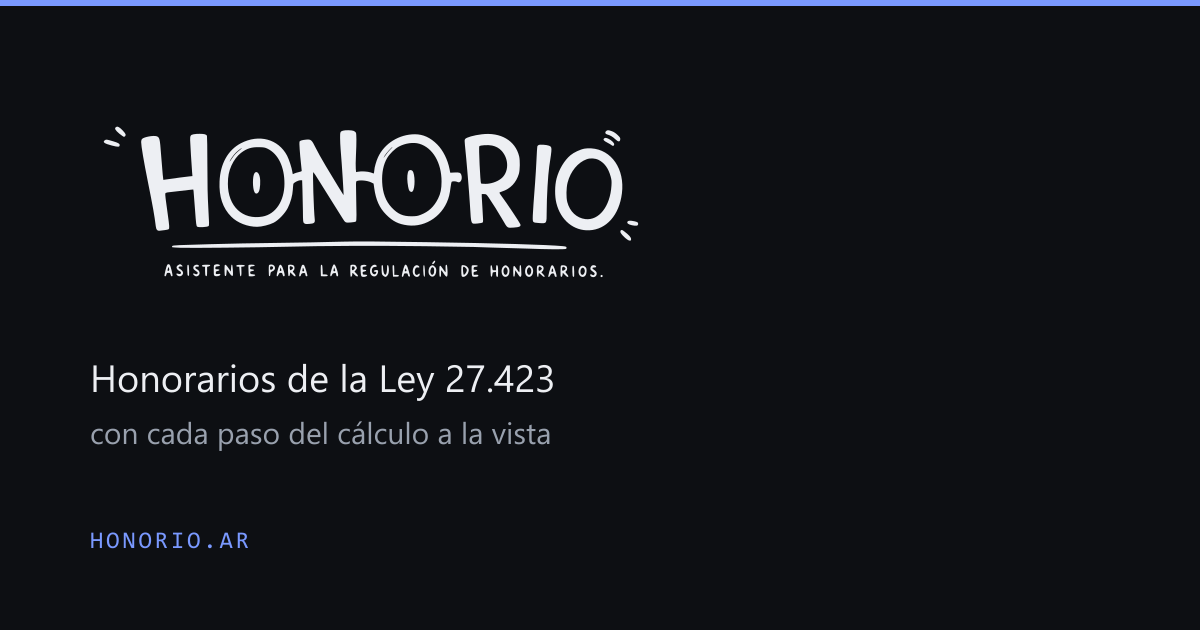
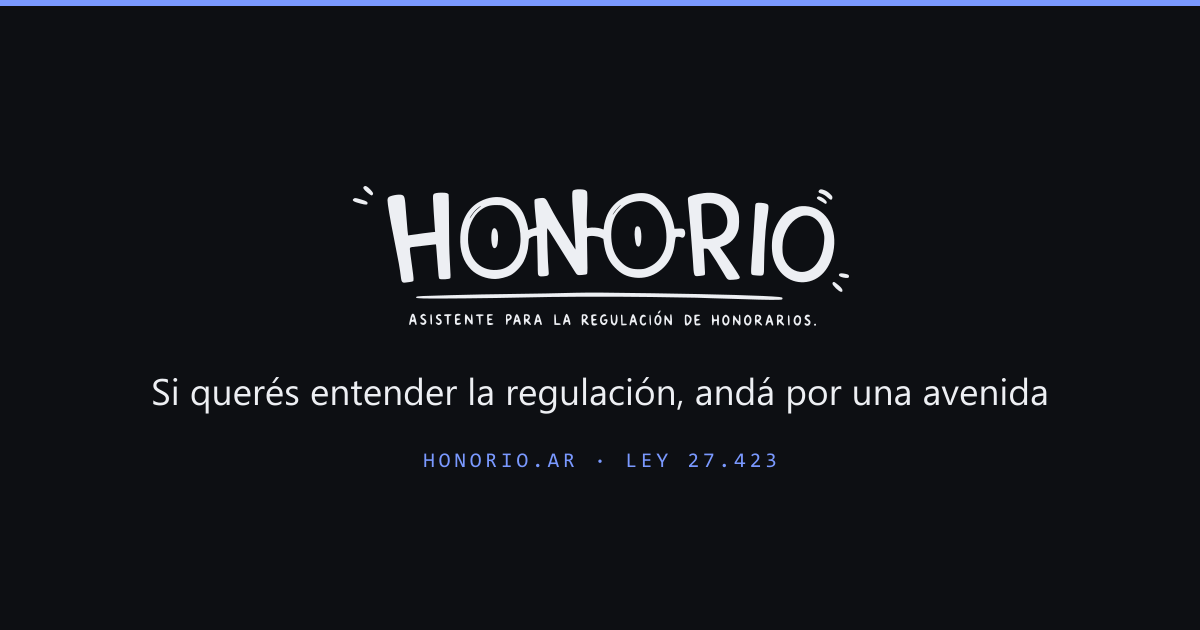
fix(og): la tarjeta decia tres cosas distintas y la imagen estaba corrida
El titulo y la descripcion estaban escritos tres veces —pestana, Open
Graph y Twitter— y se desincronizaron al primer cambio: la pestana decia
una cosa y la tarjeta de WhatsApp seguia diciendo la vieja. Ahora salen
de una constante.

La imagen estaba compuesta a la izquierda y dejaba media tarjeta vacia a
la derecha, que en la miniatura de una conversacion se lee como un error
de carga y no como aire. Va centrada, con la frase adentro, y el bloque
entero se centra vertical como una sola pieza en vez de acomodar cada
linea a ojo.

diff --git a/app/layout.tsx b/app/layout.tsx
@@ -38,15 +38,27 @@ const sourceSerif = Source_Serif_4({
 // navegador, y tiene que ser absoluta. El sitio canonico es honorio.ar
 // aunque el mismo build se sirva ademas desde el repositorio viejo.
 //
-// La imagen se genera con `node scripts/og.mjs` y esta commiteada.
+// La imagen se genera con `node scripts/og.mjs` y esta commiteada. La
+// frase que lleva adentro es esta misma: si cambia el TITULO, hay que
+// volver a correr el script.
+//
+// Titulo y descripcion salen de una constante y no estan escritos en
+// cada bloque. Antes estaban tres veces —pestana, Open Graph y
+// Twitter— y se desincronizaron al primer cambio: la pestana decia una
+// cosa y la tarjeta de WhatsApp seguia diciendo la vieja.
+const TITULO = 'Honorio: si querés entender la regulación, andá por una avenida'
+
+const DESCRIPCION =
+  'Asistente para la regulación de honorarios. Gratis, sin registro y sin ' +
+  'enviar datos a ningún lado.'
+
 export const metadata: Metadata = {
   metadataBase: new URL(HONORIO),
   title: {
-    default: 'Honorio: si querés entender la regulación, andá por una avenida',
+    default: TITULO,
     template: '%s · Honorio',
   },
-  description:
-    'Asistente para la regulación de honorarios. Gratis, sin registro y sin enviar datos a ningún lado.',
+  description: DESCRIPCION,
   applicationName: 'Honorio',
   authors: [{ name: 'L. Javier Cúneo Libarona' }],
   alternates: {
@@ -57,25 +69,21 @@ export const metadata: Metadata = {
     locale: 'es_AR',
     url: '/',
     siteName: 'Honorio',
-    title: 'Honorio — Honorarios de la Ley 27.423',
-    description:
-      'Calcula honorarios de la Ley 27.423 y muestra cómo llegó al número. ' +
-      'Es gratis, abierto y no pide datos.',
+    title: TITULO,
+    description: DESCRIPCION,
     images: [
       {
         url: '/og.png',
         width: 1200,
         height: 630,
-        alt: 'Honorio — asistente para la regulación de honorarios',
+        alt: TITULO,
       },
     ],
   },
   twitter: {
     card: 'summary_large_image',
-    title: 'Honorio — Honorarios de la Ley 27.423',
-    description:
-      'Calcula honorarios de la Ley 27.423 y muestra cómo llegó al número. ' +
-      'Es gratis, abierto y no pide datos.',
+    title: TITULO,
+    description: DESCRIPCION,
     images: ['/og.png'],
   },
   icons: {
